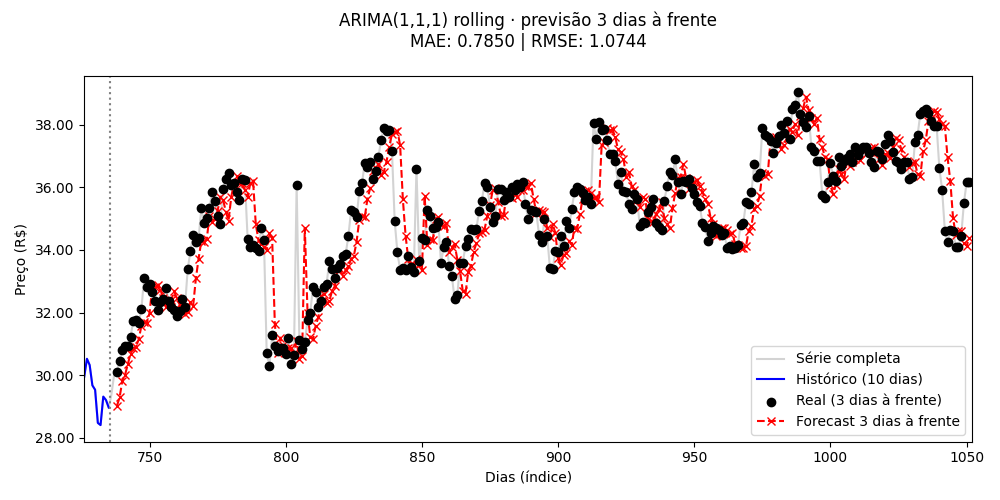
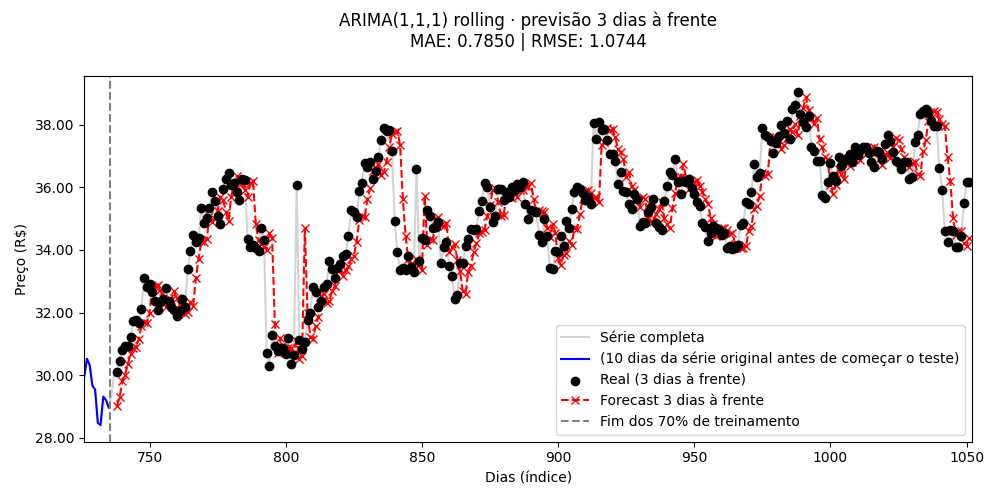
(*) adding changes and new graphics

Changed region(s): [[0.558, 0.66, 0.961, 0.87]]

diff --git a/eduardo_petr4/convolucao.py b/eduardo_petr4/convolucao.py
@@ -221,3 +221,29 @@ plt.ylabel("Diferença de Preço")
 plt.legend()
 plt.savefig("diferenca_interpolacao_original.png")
 plt.close()
+
+# Diferença: serie_interpolada_original - serie_convolucionada
+diff_conv = serie_interpolada_original - serie_convolucionada
+
+plt.figure(figsize=(12, 6))
+plt.plot(diff_conv, label="Diferença: Interpolação p/ Original - Série Convolucionada", linestyle='-', color='cyan')
+plt.axhline(0, linestyle='--', color='gray', linewidth=1)
+plt.title("Diferença entre Interpolação para Resolução Original após 2x Average Pooling e Série Convolucionada")
+plt.xlabel("Observações (dias)")
+plt.ylabel("Diferença de Preço")
+plt.legend()
+plt.savefig("diferenca_interpolacao_convolucao.png")
+plt.close()
+
+# ============================================================
+# 8. Comparação: Série Interpolada para Resolução Original vs Série Convolucionada
+# ------------------------------------------------------------
+plt.figure(figsize=(12, 6))
+plt.plot(serie_convolucionada, label="Série Convolucionada (Média Móvel 10 períodos)", color='green')
+plt.plot(serie_interpolada_original, label="Série Interpolada p/ Resolução Original", color='purple', linestyle='--')
+plt.title("Comparação: Série Convolucionada vs. Série Interpolada p/ Resolução Original após 2x Pooling")
+plt.xlabel("Observações (dias)")
+plt.ylabel("Preço")
+plt.legend()
+plt.savefig("comparacao_interpolacao_convolucao.png")
+plt.close()

diff --git a/eduardo_petr4/arima_dia_seguinte.py b/eduardo_petr4/arima_dia_seguinte.py
@@ -23,7 +23,7 @@ n       = len(serie)
 
 # 2. Divisão treino/teste (Box–Jenkins)
 #    - Treino: primeiros 70% → usado para identificar e ajustar o ARIMA
-#    - Teste: últimos 30% → validação out-of-sample em horizonte de curto prazo
+#    - Teste: últimos 30% → validação out-of-sample em horizonte de curto prazoa
 n_train = int(0.7 * n)
 train   = serie[:n_train]
 test    = serie[n_train:]
@@ -83,12 +83,18 @@ fc_x   = test_x[h-1:]  # desloca h-1 para alinhar 3-ahead ao dia certo
 fig, ax = plt.subplots(figsize=(10,5))
 ax.plot(all_x, serie, color='lightgray', label='Série completa')
 ax.plot(hist_x, serie[n_train-window:n_train], color='blue',
-        label=f'Histórico ({window} dias)')
+        label=f'({window} dias da série original antes de começar o teste)')
 ax.scatter(fc_x, real_vals, color='black', zorder=5,
            label='Real (3 dias à frente)')
 ax.plot(fc_x, predictions, '--x', color='red',
         label='Forecast 3 dias à frente')
-ax.axvline(n_train - 0.5, color='gray', linestyle=':')
+# Desenha a linha tracejada marcando o fim do treino e já define o label
+ax.axvline(
+    n_train - 0.5,
+    color='gray',
+    linestyle='--',
+    label='Fim dos 70% de treinamento'
+)
 ax.set_xlim(n_train - window, fc_x[-1] + 1)
 
 # Ajuste de eixo y com pequena margem
